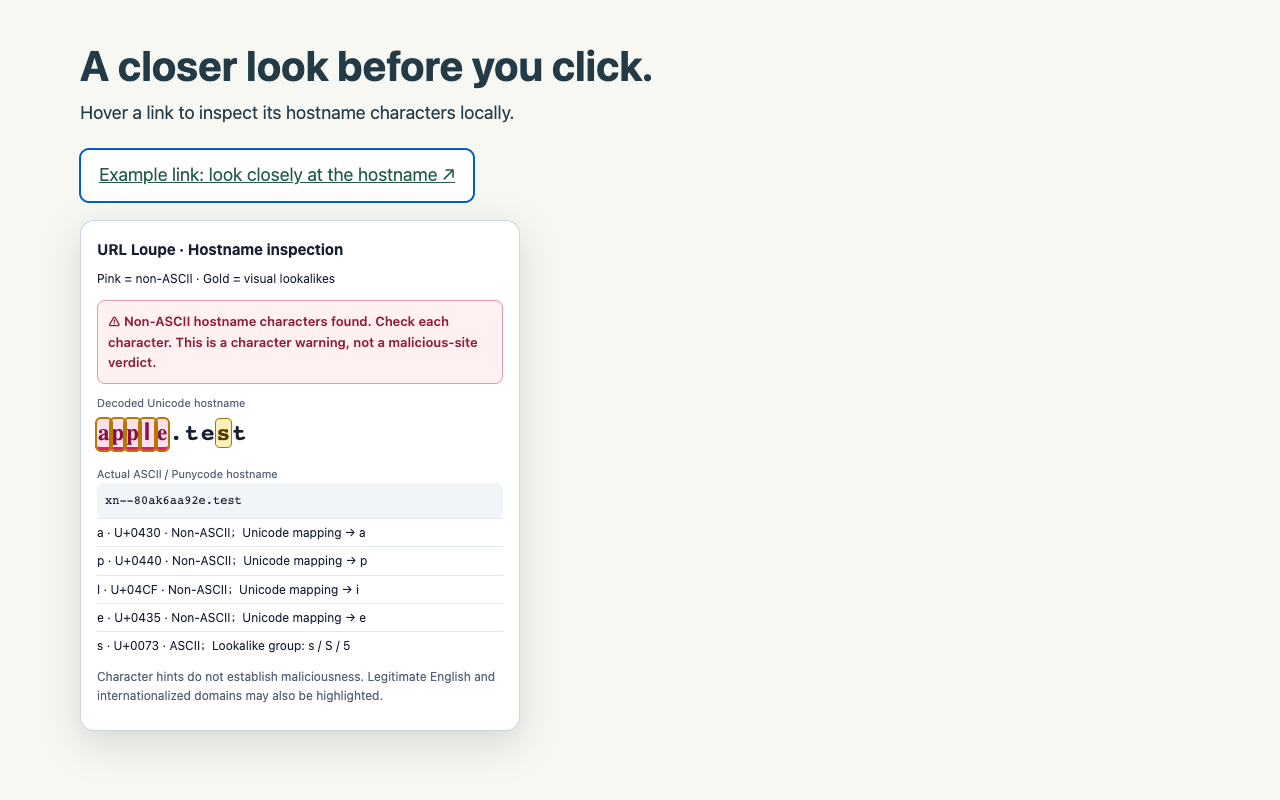
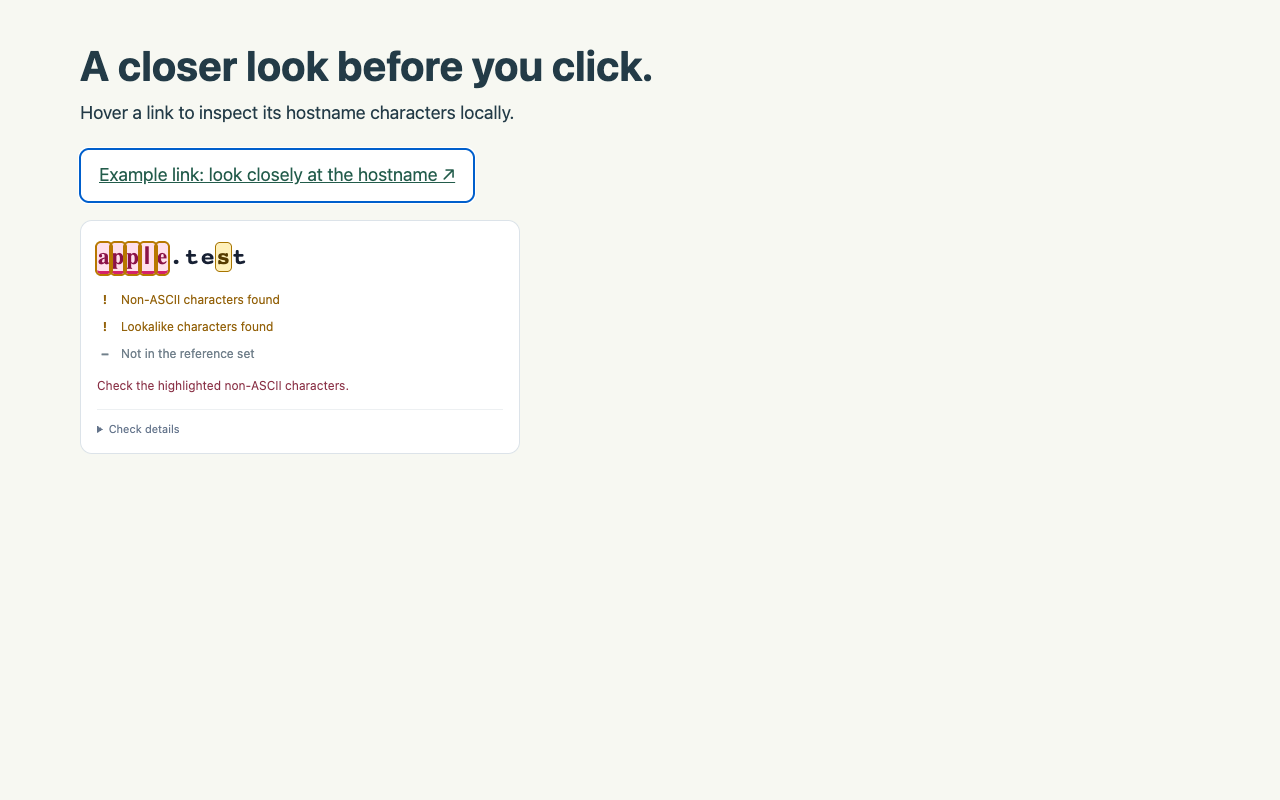
Show compact check statuses and explain only character concerns

Changed region(s): [[0.0625, 0.2812, 0.375, 0.8125], [0.0625, 0.8438, 0.375, 0.875]]

diff --git a/public/privacy.html b/public/privacy.html
@@ -1,1 +1,1 @@
-<!doctype html><html lang="en"><head><meta charset="utf-8"><meta name="viewport" content="width=device-width,initial-scale=1"><title>URL Loupe — Privacy Policy / 隐私政策</title><link rel="stylesheet" href="privacy.css"><link rel="icon" href="favicon.svg"></head><body><main><a href="/">← URL Loupe</a><h1>Privacy Policy</h1><p>Effective date: October 21, 2026 · Chrome extension version 0.3.2</p><nav><a href="#zh">中文</a> · <a href="https://github.com/zhaidewei/url-loupe/issues">Contact / support</a></nav><h2>Purpose and local processing</h2><p>URL Loupe highlights non-ASCII and visually similar hostname characters. The extension processes the current tab URL when you open its toolbar popup, URLs you type or paste into the popup or the “host” omnibox mode, and the destination of a webpage link when you hover or focus it. Processing takes place locally in your browser. Hostname extraction may temporarily handle a full URL in memory, including any credentials, path or query you supplied; those components are not included in the hostname result. Omnibox review pages receive only the extracted hostname.</p><h2>Data collection, storage and sharing</h2><p>The extension does not transmit browsing URLs, link destinations, page contents, credentials or inspection results to the developer or any third party. It has no account, analytics, advertising, tracking or extension data storage. It does not scan or store browsing history, read form fields, or collect page text. It listens for link hover and focus events rather than crawling all links. Temporary inspection state is replaced when another URL is checked or the extension context closes. There is no server-side extension dataset to retain or delete.</p><h2>Permissions and code</h2><p>“activeTab” allows reading the active page URL after you click the extension icon. Content scripts on HTTP(S) pages inspect hovered or focused link destinations and display a local overlay. The “host” keyword enables opt-in address-bar inspection. The extension does not replace links, intercept clicks, block navigation or visit an inspected URL. All JavaScript, Punycode code and Unicode mappings are bundled in the extension; no remotely hosted code is loaded.</p><h2>External links and website hosting</h2><p>Opening the privacy policy, support page or source repository is an ordinary browser navigation you initiate. Those websites and their hosting providers may process normal request metadata, such as IP address, time, requested page and browser information. The website at loupe.zhaidewei.com is hosted on Cloudflare. These visits are separate from the extension’s local URL inspections. If you voluntarily open a GitHub issue, the information you submit is handled by GitHub and may be public; do not include sensitive information.</p><h2>Limited Use and changes</h2><p>URL Loupe’s use of information received from Google APIs adheres to the Chrome Web Store User Data Policy, including the Limited Use requirements. Data accessed through Chrome APIs is used solely to provide the hostname inspection feature. Future changes to data practices will be reflected in this policy and the relevant store disclosures.</p><h2>Contact</h2><p>Maintainer: Dewei Zhai. Questions or requests: <a href="https://github.com/zhaidewei/url-loupe/issues">URL Loupe GitHub Issues</a>. The extension’s local-only processing does not establish whether a website is safe.</p><hr><section id="zh" lang="zh-CN"><h1>隐私政策</h1><p>生效日期：2026 年 10 月 21 日 · Chrome 插件版本 0.3.2</p><h2>用途与本地处理</h2><p>URL Loupe 标记域名中的非 ASCII 与视觉相似字符。点击插件图标后，它读取当前标签页网址；也处理你在面板或 host 地址栏模式中输入的网址，以及悬停或聚焦链接时的目标地址。分析在浏览器本地完成。解析过程可能短暂在内存中处理完整网址及其中的身份信息、路径和参数；这些内容不会进入域名结果。地址栏打开的检查页只接收解析后的 host。</p><h2>收集、存储与共享</h2><p>插件不向开发者或第三方发送浏览网址、链接目标、页面内容、身份信息或检查结果。没有账号、统计、广告、跟踪或插件数据持久化存储；不扫描或保存浏览历史，不读取表单，不收集页面文本。它监听链接悬停和聚焦事件，不批量抓取页面链接。临时检查状态在检查其他网址或插件上下文关闭时替换或释放，因此没有服务端插件数据可保留或删除。</p><h2>权限与代码</h2><p>activeTab 用于点击图标后读取当前网址；HTTP(S) 页面的 content scripts 用于检查悬停或聚焦链接并显示本地浮层；host 关键字提供主动进入的地址栏检查。插件不替换链接、不接管点击、不阻止跳转、不访问被检查的网址。JavaScript、Punycode 和 Unicode 映射随插件打包，不执行远程代码。</p><h2>外部链接与托管</h2><p>主动打开隐私政策、帮助或源码属于普通网页访问，相应网站及托管方可能处理 IP、访问时间、页面和浏览器信息等常规请求元数据。本网站由 Cloudflare 托管；这些访问与插件的本地网址检查相互独立。主动提交 GitHub Issue 的内容由 GitHub 处理，可能公开，请勿包含敏感信息。</p><h2>有限使用、更新与联系</h2><p>通过 Google API 获取的信息遵守 Chrome Web Store 用户数据政策及 Limited Use 要求，仅用于提供域名检查功能。若数据处理方式变化，将同步更新政策与商店披露。维护者：Dewei Zhai；联系渠道：<a href="https://github.com/zhaidewei/url-loupe/issues">GitHub Issues</a>。字符提示不构成网站安全判定。</p></section></main></body></html>
+<!doctype html><html lang="en"><head><meta charset="utf-8"><meta name="viewport" content="width=device-width,initial-scale=1"><title>URL Loupe — Privacy Policy / 隐私政策</title><link rel="stylesheet" href="privacy.css"><link rel="icon" href="favicon.svg"></head><body><main><a href="/">← URL Loupe</a><h1>Privacy Policy</h1><p>Effective date: October 21, 2026 · Chrome extension version 0.3.3</p><nav><a href="#zh">中文</a> · <a href="https://github.com/zhaidewei/url-loupe/issues">Contact / support</a></nav><h2>Purpose and local processing</h2><p>URL Loupe highlights non-ASCII and visually similar hostname characters. The extension processes the current tab URL when you open its toolbar popup, URLs you type or paste into the popup or the “host” omnibox mode, and the destination of a webpage link when you hover or focus it. Processing takes place locally in your browser. Hostname extraction may temporarily handle a full URL in memory, including any credentials, path or query you supplied; those components are not included in the hostname result. Omnibox review pages receive only the extracted hostname.</p><h2>Data collection, storage and sharing</h2><p>The extension does not transmit browsing URLs, link destinations, page contents, credentials or inspection results to the developer or any third party. It has no account, analytics, advertising, tracking or extension data storage. It does not scan or store browsing history, read form fields, or collect page text. It listens for link hover and focus events rather than crawling all links. Temporary inspection state is replaced when another URL is checked or the extension context closes. There is no server-side extension dataset to retain or delete.</p><h2>Permissions and code</h2><p>“activeTab” allows reading the active page URL after you click the extension icon. Content scripts on HTTP(S) pages inspect hovered or focused link destinations and display a local overlay. The “host” keyword enables opt-in address-bar inspection. The extension does not replace links, intercept clicks, block navigation or visit an inspected URL. All JavaScript, Punycode code and Unicode mappings are bundled in the extension; no remotely hosted code is loaded.</p><h2>External links and website hosting</h2><p>Opening the privacy policy, support page or source repository is an ordinary browser navigation you initiate. Those websites and their hosting providers may process normal request metadata, such as IP address, time, requested page and browser information. The website at loupe.zhaidewei.com is hosted on Cloudflare. These visits are separate from the extension’s local URL inspections. If you voluntarily open a GitHub issue, the information you submit is handled by GitHub and may be public; do not include sensitive information.</p><h2>Limited Use and changes</h2><p>URL Loupe’s use of information received from Google APIs adheres to the Chrome Web Store User Data Policy, including the Limited Use requirements. Data accessed through Chrome APIs is used solely to provide the hostname inspection feature. Future changes to data practices will be reflected in this policy and the relevant store disclosures.</p><h2>Contact</h2><p>Maintainer: Dewei Zhai. Questions or requests: <a href="https://github.com/zhaidewei/url-loupe/issues">URL Loupe GitHub Issues</a>. The extension’s local-only processing does not establish whether a website is safe.</p><hr><section id="zh" lang="zh-CN"><h1>隐私政策</h1><p>生效日期：2026 年 10 月 21 日 · Chrome 插件版本 0.3.3</p><h2>用途与本地处理</h2><p>URL Loupe 标记域名中的非 ASCII 与视觉相似字符。点击插件图标后，它读取当前标签页网址；也处理你在面板或 host 地址栏模式中输入的网址，以及悬停或聚焦链接时的目标地址。分析在浏览器本地完成。解析过程可能短暂在内存中处理完整网址及其中的身份信息、路径和参数；这些内容不会进入域名结果。地址栏打开的检查页只接收解析后的 host。</p><h2>收集、存储与共享</h2><p>插件不向开发者或第三方发送浏览网址、链接目标、页面内容、身份信息或检查结果。没有账号、统计、广告、跟踪或插件数据持久化存储；不扫描或保存浏览历史，不读取表单，不收集页面文本。它监听链接悬停和聚焦事件，不批量抓取页面链接。临时检查状态在检查其他网址或插件上下文关闭时替换或释放，因此没有服务端插件数据可保留或删除。</p><h2>权限与代码</h2><p>activeTab 用于点击图标后读取当前网址；HTTP(S) 页面的 content scripts 用于检查悬停或聚焦链接并显示本地浮层；host 关键字提供主动进入的地址栏检查。插件不替换链接、不接管点击、不阻止跳转、不访问被检查的网址。JavaScript、Punycode 和 Unicode 映射随插件打包，不执行远程代码。</p><h2>外部链接与托管</h2><p>主动打开隐私政策、帮助或源码属于普通网页访问，相应网站及托管方可能处理 IP、访问时间、页面和浏览器信息等常规请求元数据。本网站由 Cloudflare 托管；这些访问与插件的本地网址检查相互独立。主动提交 GitHub Issue 的内容由 GitHub 处理，可能公开，请勿包含敏感信息。</p><h2>有限使用、更新与联系</h2><p>通过 Google API 获取的信息遵守 Chrome Web Store 用户数据政策及 Limited Use 要求，仅用于提供域名检查功能。若数据处理方式变化，将同步更新政策与商店披露。维护者：Dewei Zhai；联系渠道：<a href="https://github.com/zhaidewei/url-loupe/issues">GitHub Issues</a>。字符提示不构成网站安全判定。</p></section></main></body></html>

diff --git a/extension/i18n.js b/extension/i18n.js
@@ -1,2 +1,2 @@
 // UI-only translations: user-provided URL characters are never translated.
-(()=>{const en={"与已保存的完整域名一致，已隐藏普通 ASCII 字符提示；这不代表网站安全。":"Matches a saved hostname. Generic ASCII hints are hidden; this does not establish website safety.","Host Lens · 域名字符检查":"URL Loupe · Hostname inspection","URL 放大镜":"URL Loupe","看清 host 中的每个字符":"A closer look at every hostname","网址或域名":"URL or domain","粘贴网址，例如 https://lnkd.in":"Paste a URL, e.g. https://lnkd.in","试试看":"Try","I / l 混淆":"I / l lookalikes","西里尔字母":"Cyrillic","中文域名":"Chinese domain","粉色＝非 ASCII　金框＝视觉相似字符":"Pink = non-ASCII · Gold = visual lookalikes","⚠ host 含非 ASCII 字符，请逐字核对域名。此提示覆盖所有非 ASCII 字符，不代表网站恶意。":"⚠ Non-ASCII hostname characters found. Check each character. This is a character warning, not a malicious-site verdict.","解析后的 Unicode host":"Decoded Unicode hostname","浏览器实际使用的 ASCII / Punycode host":"Actual ASCII / Punycode hostname","输入中的原始 host（浏览器规范化前）":"Original hostname before normalization","网址含有 @ 前的身份信息；实际 host 以此面板解析结果为准。":"Credentials before @ are not the hostname. Inspect the actual hostname shown here.","这是 IPv6 地址，字符提示仅供阅读。":"This is an IPv6 address; hints are for readability only.","字符提示不代表恶意判定。普通英文域名和中文域名也可能出现高亮。":"Character hints do not establish maliciousness. Legitimate English and internationalized domains may also be highlighted.","非 ASCII 字符":"Non-ASCII character","ASCII 字符":"ASCII character","非 ASCII":"Non-ASCII","无法解析输入，请在此输入 HTTP(S) 网址或域名。":"Cannot parse the input. Enter an HTTP(S) URL or domain.","当前页面无法检查，请粘贴 HTTP(S) 网址。":"This page cannot be inspected. Paste an HTTP(S) URL.","无法读取当前页，请手动粘贴网址。":"Cannot read the current tab. Paste a URL manually.","无法解析网址，请输入完整的 HTTP(S) 网址或域名。":"Cannot parse the URL. Enter an HTTP(S) URL or domain.","只检查 HTTP(S) 网址的 host。":"Only HTTP(S) hostnames can be inspected.","域名的 Punycode 编码无效。":"The hostname has invalid Punycode encoding.","组合 rn 形似 m":"The pair rn can look like m","组合 vv 形似 w":"The pair vv can look like w","形似组合：rn":"Lookalike pair: rn","形似组合：vv":"Lookalike pair: vv","输入网址或域名，检查字符；<dim>按回车查看完整高亮，不访问目标网站</dim>":"Enter a URL or domain; <dim>press Enter for local highlights, without visiting the target</dim>","⚠ 含非 ASCII 字符，请核对 · ":"⚠ Non-ASCII characters — check carefully · "," · 相似字符 ":" · Lookalikes "," · 回车查看，不访问":" · Enter to inspect locally","实际 host：":"Actual host: ","· 查看高亮详情":"· Open character details","无法解析此网址。<dim>请输入 HTTP(S) 网址或域名；回车显示帮助，不访问输入地址</dim>":"Cannot parse this URL. <dim>Enter an HTTP(S) URL or domain; Enter opens local help</dim>","无法打开域名检查页。":"Cannot open the hostname inspector."};let lang=globalThis.chrome?.i18n?.getUILanguage?.().startsWith('zh')?'zh':'en';if(!globalThis.chrome?.i18n)lang='zh';function text(value){if(lang==='zh')return value;if(en[value])return en[value];if(value.startsWith('Unicode 映射 → '))return 'Unicode mapping → '+value.slice('Unicode 映射 → '.length);if(value.startsWith('形似组：'))return 'Lookalike group: '+value.slice('形似组：'.length);return value;}globalThis.HostLensI18n={text,get lang(){return lang;},set lang(value){lang=value==='zh'?'zh':'en';}};})();
+(()=>{const en={"域名检查结果":"Hostname checks","无非 ASCII 字符":"No non-ASCII characters","发现非 ASCII 字符":"Non-ASCII characters found","无形似字符提示":"No lookalike character hints","发现形似字符":"Lookalike characters found","已保存的域名匹配":"Saved hostname matched","参考库未收录":"Not in the reference set","请核对标记的非 ASCII 字符。":"Check the highlighted non-ASCII characters.","标记的字符可能形似其他字符，请核对预期域名。":"Highlighted characters can look alike. Check the expected hostname.","网址含 @ 前的身份信息，请核对实际域名。":"Credentials appear before @. Check the actual hostname.","检查详情":"Check details","检查范围：域名字符与已保存域名匹配；不检查网页内容。":"Scope: hostname characters and saved-host matching; page content is not checked.","与已保存的完整域名一致，已隐藏普通 ASCII 字符提示；这不代表网站安全。":"Matches a saved hostname. Generic ASCII hints are hidden; this does not establish website safety.","Host Lens · 域名字符检查":"URL Loupe · Hostname inspection","URL 放大镜":"URL Loupe","看清 host 中的每个字符":"A closer look at every hostname","网址或域名":"URL or domain","粘贴网址，例如 https://lnkd.in":"Paste a URL, e.g. https://lnkd.in","试试看":"Try","I / l 混淆":"I / l lookalikes","西里尔字母":"Cyrillic","中文域名":"Chinese domain","粉色＝非 ASCII　金框＝视觉相似字符":"Pink = non-ASCII · Gold = visual lookalikes","⚠ host 含非 ASCII 字符，请逐字核对域名。此提示覆盖所有非 ASCII 字符，不代表网站恶意。":"⚠ Non-ASCII hostname characters found. Check each character. This is a character warning, not a malicious-site verdict.","解析后的 Unicode host":"Decoded Unicode hostname","浏览器实际使用的 ASCII / Punycode host":"Actual ASCII / Punycode hostname","输入中的原始 host（浏览器规范化前）":"Original hostname before normalization","网址含有 @ 前的身份信息；实际 host 以此面板解析结果为准。":"Credentials before @ are not the hostname. Inspect the actual hostname shown here.","这是 IPv6 地址，字符提示仅供阅读。":"This is an IPv6 address; hints are for readability only.","字符提示不代表恶意判定。普通英文域名和中文域名也可能出现高亮。":"Character hints do not establish maliciousness. Legitimate English and internationalized domains may also be highlighted.","非 ASCII 字符":"Non-ASCII character","ASCII 字符":"ASCII character","非 ASCII":"Non-ASCII","无法解析输入，请在此输入 HTTP(S) 网址或域名。":"Cannot parse the input. Enter an HTTP(S) URL or domain.","当前页面无法检查，请粘贴 HTTP(S) 网址。":"This page cannot be inspected. Paste an HTTP(S) URL.","无法读取当前页，请手动粘贴网址。":"Cannot read the current tab. Paste a URL manually.","无法解析网址，请输入完整的 HTTP(S) 网址或域名。":"Cannot parse the URL. Enter an HTTP(S) URL or domain.","只检查 HTTP(S) 网址的 host。":"Only HTTP(S) hostnames can be inspected.","域名的 Punycode 编码无效。":"The hostname has invalid Punycode encoding.","组合 rn 形似 m":"The pair rn can look like m","组合 vv 形似 w":"The pair vv can look like w","形似组合：rn":"Lookalike pair: rn","形似组合：vv":"Lookalike pair: vv","输入网址或域名，检查字符；<dim>按回车查看完整高亮，不访问目标网站</dim>":"Enter a URL or domain; <dim>press Enter for local highlights, without visiting the target</dim>","⚠ 含非 ASCII 字符，请核对 · ":"⚠ Non-ASCII characters — check carefully · "," · 相似字符 ":" · Lookalikes "," · 回车查看，不访问":" · Enter to inspect locally","实际 host：":"Actual host: ","· 查看高亮详情":"· Open character details","无法解析此网址。<dim>请输入 HTTP(S) 网址或域名；回车显示帮助，不访问输入地址</dim>":"Cannot parse this URL. <dim>Enter an HTTP(S) URL or domain; Enter opens local help</dim>","无法打开域名检查页。":"Cannot open the hostname inspector."};let lang=globalThis.chrome?.i18n?.getUILanguage?.().startsWith('zh')?'zh':'en';if(!globalThis.chrome?.i18n)lang='zh';function text(value){if(lang==='zh')return value;if(en[value])return en[value];if(value.startsWith('Unicode 映射 → '))return 'Unicode mapping → '+value.slice('Unicode 映射 → '.length);if(value.startsWith('形似组：'))return 'Lookalike group: '+value.slice('形似组：'.length);return value;}globalThis.HostLensI18n={text,get lang(){return lang;},set lang(value){lang=value==='zh'?'zh':'en';}};})();

diff --git a/extension/render.js b/extension/render.js
@@ -1,54 +1,36 @@
 (() => {
   const tr=value=>globalThis.HostLensI18n?.text(value)??value;
   const hints=t=>t.hints.map(tr);
-  const styles = `
-    :host{all:initial;color-scheme:light;font:14px/1.6 system-ui,sans-serif;color:#172033}
-    *{box-sizing:border-box} .card{font:14px/1.6 system-ui,sans-serif;color:#172033;background:#fff;border:1px solid #cbd5e1;border-radius:14px;padding:16px;box-shadow:0 12px 40px #0f172a28;overflow-wrap:anywhere}
-    h2{font-size:15px;margin:0 0 8px}p{margin:8px 0;font-size:12px;color:#536176}
-    .host{font:600 23px/1.9 ui-monospace,monospace;direction:ltr;unicode-bidi:isolate;word-break:break-all}
-    .char{border-radius:4px;padding:1px;white-space:pre-wrap}.nonascii{background:#ffe0ec;color:#8b1247;border-bottom:3px solid #d4226a}
-    .similar{outline:1px solid #a87500;background:#fff0ba;color:#563b00}.nonascii.similar{background:#ffe0ec;color:#8b1247;outline:2px solid #b87800}
-    .encoded{font:12px/1.6 ui-monospace,monospace;direction:ltr;unicode-bidi:isolate;background:#f1f5f9;padding:8px;border-radius:6px;user-select:all}
-    .label{font-size:11px;color:#536176;margin-top:10px}.legend{font-size:12px;margin-bottom:12px}
-    .warning{background:#fff1f2;border:1px solid #e29aa9;border-radius:8px;padding:10px;margin:10px 0;color:#901e3a;font-weight:600;font-size:13px}
-    .details{max-height:150px;overflow:auto;font-size:12px}.detail{border-top:1px solid #e2e8f0;padding:4px 0}
+  const styles=`
+    :host{all:initial;color-scheme:light;font:13px/1.6 system-ui,sans-serif;color:#172033}
+    *{box-sizing:border-box}.card{font:13px/1.6 system-ui,sans-serif;color:#172033;background:#fff;border:1px solid #dce3e9;border-radius:12px;padding:16px;overflow-wrap:anywhere}
+    .host{font:600 23px/1.8 ui-monospace,monospace;direction:ltr;unicode-bidi:isolate;word-break:break-all;margin-bottom:12px}
+    .char{border-radius:4px;padding:1px;white-space:pre-wrap}.nonascii{background:#ffe0ec;color:#8b1247;border-bottom:3px solid #d4226a}.similar{outline:1px solid #a87500;background:#fff0ba;color:#563b00}.nonascii.similar{background:#ffe0ec;color:#8b1247;outline:2px solid #b87800}
+    .checks{display:grid;gap:8px}.check{display:flex;align-items:center;gap:8px;font-size:12px}.icon{font-weight:700;width:16px;text-align:center}.pass{color:#23634d}.attention{color:#94630c}.neutral{color:#71808b}
+    .warning,.explanation{font-size:12px;margin:12px 0 0;color:#8b3348}.explanation{color:#7b622e}
+    details{margin-top:14px;border-top:1px solid #edf0f2;padding-top:10px;color:#64748b;font-size:11px}summary{cursor:pointer}summary:focus-visible{outline:2px solid #4383ea;outline-offset:3px}.label{margin-top:10px}.encoded{font:12px/1.6 ui-monospace,monospace;direction:ltr;unicode-bidi:isolate;padding:5px 0;color:#34475a;user-select:all}.details{max-height:150px;overflow:auto}.detail{padding:3px 0}.scope{font-size:11px;margin:10px 0 0}
   `;
-  function appendHost(parent, tokens) {
-    const line = document.createElement('div'); line.className = 'host';
-    for (const t of tokens) {
-      const span = document.createElement('span');
-      span.className = 'char'+(t.nonAscii ? ' nonascii':'')+(t.similar ? ' similar':'');
-      span.textContent = t.char;
-      span.title = [t.code, tr(t.nonAscii ? '非 ASCII 字符' : 'ASCII 字符'), ...hints(t)].join('；');
-      span.setAttribute('aria-label', t.char+' '+span.title);
-      line.append(span);
-    }
-    parent.append(line);
+  function make(tag,text,cls){const el=document.createElement(tag);if(text!==undefined)el.textContent=text;if(cls)el.className=cls;return el;}
+  function appendHost(parent,tokens){
+    const line=make('div',undefined,'host');
+    for(const t of tokens){const span=make('span',t.char,'char'+(t.nonAscii?' nonascii':'')+(t.similar?' similar':''));span.title=[t.code,tr(t.nonAscii?'非 ASCII 字符':'ASCII 字符'),...hints(t)].join('；');span.setAttribute('aria-label',t.char+' '+span.title);line.append(span);}parent.append(line);
   }
-  function render(root, data) {
-    root.replaceChildren();
-    const style = document.createElement('style'); style.textContent = styles; root.append(style);
-    const card = document.createElement('section'); card.className='card'; root.append(card);
-    const add = (tag, text, cls) => { const e=document.createElement(tag); e.textContent=tr(text); if(cls)e.className=cls; card.append(e); return e; };
-    add('h2','Host Lens · 域名字符检查');
-    add('div','粉色＝非 ASCII　金框＝视觉相似字符','legend');
-    if(data.knownReference)add('p','与已保存的完整域名一致，已隐藏普通 ASCII 字符提示；这不代表网站安全。');
-    if (data.nonAsciiCount > 0) {
-      const warning=add('div','⚠ host 含非 ASCII 字符，请逐字核对域名。此提示覆盖所有非 ASCII 字符，不代表网站恶意。','warning');
-      warning.setAttribute('role','alert');
-    }
-    add('div','解析后的 Unicode host','label'); appendHost(card, data.tokens);
-    add('div','浏览器实际使用的 ASCII / Punycode host','label'); add('div',data.asciiHost,'encoded');
-    if (data.originalTokens) { add('div','输入中的原始 host（浏览器规范化前）','label'); appendHost(card,data.originalTokens); }
-    if (data.hasCredentials) add('p','网址含有 @ 前的身份信息；实际 host 以此面板解析结果为准。');
-    if (data.ipv6) add('p','这是 IPv6 地址，字符提示仅供阅读。');
-    const seen = new Set(); const details=document.createElement('div'); details.className='details'; card.append(details);
-    for(const t of [...data.tokens,...(data.originalTokens||[])]) {
-      if ((!t.nonAscii && !t.similar) || seen.has(t.char)) continue;
-      seen.add(t.char); const row=document.createElement('div'); row.className='detail';
-      row.textContent=`${t.char} · ${t.code} · ${[tr(t.nonAscii?'非 ASCII':'ASCII'),...hints(t)].join('；')}`; details.append(row);
-    }
-    add('p','字符提示不代表恶意判定。普通英文域名和中文域名也可能出现高亮。');
+  function render(root,data){
+    root.replaceChildren(make('style',styles));const card=make('section',undefined,'card');card.setAttribute('aria-label',tr('域名检查结果'));root.append(card);
+    appendHost(card,data.originalTokens||data.tokens);
+    const checks=make('div',undefined,'checks');checks.setAttribute('role','list');card.append(checks);
+    const row=(kind,label)=>{const item=make('div',undefined,'check '+kind);item.setAttribute('role','listitem');const icon=make('span',kind==='pass'?'✓':kind==='attention'?'!':'–','icon');icon.setAttribute('aria-hidden','true');item.append(icon,make('span',tr(label)));checks.append(item);};
+    row(data.nonAsciiCount?'attention':'pass',data.nonAsciiCount?'发现非 ASCII 字符':'无非 ASCII 字符');
+    row(data.similarCount?'attention':'pass',data.similarCount?'发现形似字符':'无形似字符提示');
+    row(data.knownReference?'pass':'neutral',data.knownReference?'已保存的域名匹配':'参考库未收录');
+    if(data.nonAsciiCount){const warning=make('p',tr('请核对标记的非 ASCII 字符。'),'warning');warning.setAttribute('role','alert');card.append(warning);}
+    else if(data.similarCount)card.append(make('p',tr('标记的字符可能形似其他字符，请核对预期域名。'),'explanation'));
+    if(data.hasCredentials)card.append(make('p',tr('网址含 @ 前的身份信息，请核对实际域名。'),'explanation'));
+    const detail=make('details');detail.append(make('summary',tr('检查详情')));card.append(detail);
+    detail.append(make('div',tr('浏览器实际使用的 ASCII / Punycode host'),'label'),make('div',data.asciiHost,'encoded'));
+    if(data.originalTokens)detail.append(make('div',tr('解析后的 Unicode host'),'label'),make('div',data.unicodeHost,'encoded normalized'));
+    const list=make('div',undefined,'details');const seen=new Set();for(const t of [...data.tokens,...(data.originalTokens||[])]){if((!t.nonAscii&&!t.similar)||seen.has(t.char))continue;seen.add(t.char);list.append(make('div',`${t.char} · ${t.code} · ${[tr(t.nonAscii?'非 ASCII':'ASCII'),...hints(t)].join('；')}`,'detail'));}detail.append(list);
+    detail.append(make('p',tr('检查范围：域名字符与已保存域名匹配；不检查网页内容。'),'scope'));
   }
-  globalThis.HostLensView = Object.freeze({render});
+  globalThis.HostLensView=Object.freeze({render});
 })();

diff --git a/extension/popup.js b/extension/popup.js
@@ -29,5 +29,5 @@ for(const button of document.querySelectorAll('[data-example]'))button.addEventL
 })();
 
 const originalText=new Map();for(const el of document.querySelectorAll('header p,label,.examples span,.examples button'))originalText.set(el,el.textContent);const originalPlaceholder=input.placeholder;
-function applyLanguage(){document.documentElement.lang=HostLensI18n.lang==='en'?'en':'zh-CN';for(const [el,text]of originalText)el.textContent=HostLensI18n.text(text);input.placeholder=HostLensI18n.text(originalPlaceholder);document.getElementById('language').textContent=HostLensI18n.lang==='en'?'中文':'English';document.getElementById('privacy').textContent=HostLensI18n.lang==='en'?'Privacy':'隐私政策';document.getElementById('usage').textContent=HostLensI18n.lang==='en'?'Type host + Tab in the address bar to inspect locally. Hover a webpage link to see character hints. Pink: non-ASCII. Gold: lookalikes. Character checks do not establish website safety.':'地址栏输入 host 后按 Tab，可边输入边检查。网页中悬停链接可查看字符提示。粉色＝非 ASCII；金框＝视觉相似字符。字符检查不代表网站安全。';if(input.value.trim())check(input.value);}
+function applyLanguage(){document.documentElement.lang=HostLensI18n.lang==='en'?'en':'zh-CN';for(const [el,text]of originalText)el.textContent=HostLensI18n.text(text);input.placeholder=HostLensI18n.text(originalPlaceholder);document.getElementById('language').textContent=HostLensI18n.lang==='en'?'中文':'English';document.getElementById('examples-label').textContent=HostLensI18n.lang==='en'?'Examples':'示例';document.getElementById('help-label').textContent=HostLensI18n.lang==='en'?'Help':'帮助';document.getElementById('privacy').textContent=HostLensI18n.lang==='en'?'Privacy':'隐私政策';document.getElementById('usage').textContent=HostLensI18n.lang==='en'?'Type host + Tab in the address bar, or hover a webpage link. Pink: non-ASCII. Gold: lookalikes.':'地址栏输入 host 后按 Tab，或悬停网页链接。粉色＝非 ASCII；金框＝形似字符。';if(input.value.trim())check(input.value);}
 document.getElementById('language').addEventListener('click',()=>{HostLensI18n.lang=HostLensI18n.lang==='en'?'zh':'en';applyLanguage();});applyLanguage();

diff --git a/extension/popup.html b/extension/popup.html
@@ -7,12 +7,12 @@
 <link rel="stylesheet" href="popup.css">
 </head>
 <body>
-<header><img src="icons/icon-48.png" alt="" width="32" height="32"><button id="language" type="button" aria-label="Switch language">中文</button><h1>URL Loupe</h1><p>看清 host 中的每个字符</p></header>
+<header><img src="icons/icon-48.png" alt="" width="32" height="32"><button id="language" type="button" aria-label="Switch language">中文</button><h1>URL Loupe</h1></header>
 <div class="input-group"><label for="url">网址或域名</label><div class="input-row"><input id="url" type="text" placeholder="粘贴网址，例如 https://lnkd.in" autocomplete="off" spellcheck="false"></div></div>
-<div class="examples"><span>试试看</span><button data-example="https://Inkd.in/enHTuknJ">I / l 混淆</button><button data-example="https://аррӏе.com">西里尔字母</button><button data-example="https://例子.测试">中文域名</button></div>
-<p id="error" role="alert"></p>
+<details class="examples-panel"><summary id="examples-label">Examples</summary><div class="examples"><span>试试看</span><button data-example="https://Inkd.in/enHTuknJ">I / l 混淆</button><button data-example="https://аррӏе.com">西里尔字母</button><button data-example="https://例子.测试">中文域名</button></div>
+</details><p id="error" role="alert"></p>
 <div id="result" aria-live="polite"></div>
-<footer><p id="usage"></p><p><a href="https://loupe.zhaidewei.com/privacy.html" target="_blank" rel="noopener noreferrer" id="privacy">Privacy</a> · <a href="https://github.com/zhaidewei/url-loupe" target="_blank" rel="noopener noreferrer">GitHub</a></p></footer>
+<footer><details class="help"><summary id="help-label">Help</summary><p id="usage"></p></details><p><a href="https://loupe.zhaidewei.com/privacy.html" target="_blank" rel="noopener noreferrer" id="privacy">Privacy</a> · <a href="https://github.com/zhaidewei/url-loupe" target="_blank" rel="noopener noreferrer">GitHub</a></p></footer>
 <script src="vendor/punycode.js"></script><script src="vendor/confusables.js"></script><script src="known-hosts.js"></script><script src="analyzer.js"></script><script src="i18n.js"></script><script src="render.js"></script><script src="popup.js"></script>
 </body>
 </html>

diff --git a/extension/popup.css b/extension/popup.css
@@ -1,3 +1,5 @@
 *{box-sizing:border-box}body{margin:0;width:480px;background:#f6f8fc;color:#172033;font:14px/1.6 system-ui,sans-serif;padding:20px}h1{font-size:21px;margin:0}header p{margin:0 0 18px;color:#64748b}label{display:block;margin-bottom:5px;font-weight:600}.input-row{display:flex;gap:8px}input{width:100%;min-width:0;border:1px solid #cbd5e1;border-radius:8px;padding:10px;font:13px ui-monospace,monospace;background:white}button{border:0;border-radius:8px;padding:8px 12px;background:#233c78;color:white;cursor:pointer;white-space:nowrap}button:focus-visible,input:focus-visible{outline:3px solid #4383ea;outline-offset:2px}.examples{display:flex;align-items:center;gap:6px;margin-top:12px;font-size:11px;color:#64748b}.examples button{background:#e8edf7;color:#34476d;font-size:11px;padding:5px 8px}#error{color:#a12340;font-size:12px;margin:10px 0}footer{font-size:11px;color:#64748b;margin-top:14px}
 
 header{position:relative;padding-left:42px}header>img{position:absolute;left:0;top:1px}#language{position:absolute;right:0;top:0;background:transparent;color:#64748b;font-size:11px;padding:4px}footer p{margin:6px 0}footer a{color:#536176}
+
+body{width:420px;padding:18px;background:#f6f8fa}header{padding-bottom:14px}header h1{font-size:19px}.examples-panel{margin-top:9px;font-size:11px;color:#71808b}.examples-panel summary,.help summary{cursor:pointer}.examples{margin-top:6px}.input-group label{font-size:12px}.help{font-size:11px}footer{font-size:10px;color:#819096}.card{box-shadow:none}

diff --git a/store/上传填写指南.md b/store/上传填写指南.md
@@ -1,10 +1,10 @@
 # URL Loupe Chrome Web Store 上传材料
 
-版本：0.3.2。此包用于手动上传，尚未向商店提交或通过审核。
+版本：0.3.3。此包用于手动上传，尚未向商店提交或通过审核。
 
 ## 文件怎么用
 
-上传 `url-loupe-chrome-0.3.2.zip`，其中 manifest.json 位于根目录。不要把整份项目源码 ZIP 或包含本指南的材料 ZIP 当成插件上传。
+上传 `url-loupe-chrome-0.3.3.zip`，其中 manifest.json 位于根目录。不要把整份项目源码 ZIP 或包含本指南的材料 ZIP 当成插件上传。
 
 商品名称与简短介绍由 `_locales/en`、`_locales/zh_CN` 的 manifest 文案提供。默认英文；商店英文介绍复制 listing-en.txt，简体中文本地化复制 listing-zh-CN.txt。
 
@@ -49,7 +49,7 @@ The extension processes URLs locally to extract hostnames but does not collect o
 ## 给审核员的测试说明（英文）
 
 No account, login, payment or API key is required.
-1. Open the toolbar popup and choose the Cyrillic example. Non-ASCII characters are highlighted and the Punycode host is shown.
+1. Open the toolbar popup and expand Examples and choose the Cyrillic example. Non-ASCII characters are highlighted and the Punycode host is shown.
 2. Paste https://例子.test — both Chinese hostname characters must be highlighted. Paste https://safe.test/中文?x=а — Unicode path/query characters must not produce a non-ASCII hostname warning.
 3. In the address bar type host and press Tab. Enter https://Inkd.test and press Enter. An extension-local review opens; the destination must not be visited.
 4. On an ordinary HTTP(S) webpage hover or keyboard-focus a link containing similar hostname characters. An overlay appears. Escape dismisses it; the original link is unchanged. If Chrome restricts a page, use another ordinary webpage or a local HTTP fixture.
@@ -66,6 +66,6 @@ Exact matches to saved hostnames suppress generic ASCII character hints. Non-ASC
 
 核对日期：2026-10-20。是否接纳和审核时长由 Chrome Web Store 决定。
 
-## 0.3.2 参考数据
+## 0.3.3 参考数据
 
 插件随包包含 6,890 个去重后的完整 host，合并现有记录与 Google CrUX 2026-09 Top 5000 origin 分组。运行时只存域名，来源与 CC BY 4.0 声明在 vendor/CRUX-NOTICE.txt 中。下载路径为独立导出镜像，不是 Google 官方插件或 Google 认可的安全名单。没有新增权限、联网请求或远程代码。

diff --git a/extension/VALIDATION.md b/extension/VALIDATION.md
@@ -71,3 +71,9 @@ node tests/browser.cjs
 - 固定上游镜像提交与压缩输入 SHA-256，另一个镜像的相同月度导出独立核对，host 集合一致。没有称其为 Google 官方托管下载。
 - 22 项扩展单测、20 项网站/CLI 单测通过；0.3.2 最终 ZIP 解压加载隔离 Chromium，通过 www.google.com 与已有 host 的无 ASCII 高亮检查、未知子域不豁免、非 ASCII 保留及原有所有入口回归。
 - 上传 ZIP 为 95599 字节；合并 JSON 122643 字节，gzip 40894 字节。未提交商店审核。
+
+## 精简结果 0.3.3（2026-10-21）
+
+- 正常状态只显示一次域名与三项检查状态：非 ASCII、形似字符提示、保存域名匹配。通过项为绿色，未收录为灰色，不显示成已匹配或安全。
+- 有字符问题时才显示高亮和短解释；实际 ASCII/Punycode、码点和检查范围收进默认关闭的详情。示例与帮助默认折叠，移除重复标题、图例、域名与常驻长提示。
+- 不改变检测规则、数据来源或权限。源码和上传 ZIP 的真实 Chrome 回归通过，包括三项通过状态、默认折叠、非 ASCII 与未知域名提示、语言切换、地址栏和悬停。

diff --git a/README.zh-CN.md b/README.zh-CN.md
@@ -1,4 +1,4 @@
-# URL Loupe 网站 v0.3.2
+# URL Loupe 网站 v0.3.3
 
 输入网址，即时检查 host 中的非 ASCII 字符、视觉相似字符与公司域名相似候选。所有字符与品牌比对在浏览器本地完成，不访问输入的目标网站。
 
@@ -97,4 +97,4 @@ Wikidata 结构化数据采用 CC0；Unicode 数据、punycode.js、tldts 和 tl
 
 ## Chrome 商店材料
 
-extension/ 当前商店准备版为 0.3.2，新增英文／简体中文与面板语言切换，仍仅做字符检查。打包运行 `node scripts/package-extension.mjs`。商店介绍、权限与隐私填写说明及图片在 store/，公开隐私政策为 https://loupe.zhaidewei.com/privacy.html 。插件 ZIP 已在隔离 Chrome 中加载验证；尚未上传或提交商店审核。
+extension/ 当前商店准备版为 0.3.3，新增英文／简体中文与面板语言切换，仍仅做字符检查。打包运行 `node scripts/package-extension.mjs`。商店介绍、权限与隐私填写说明及图片在 store/，公开隐私政策为 https://loupe.zhaidewei.com/privacy.html 。插件 ZIP 已在隔离 Chrome 中加载验证；尚未上传或提交商店审核。

diff --git a/VALIDATION.md b/VALIDATION.md
@@ -100,3 +100,8 @@ Node.js 22.23.1；`npm test`：14/14 通过。
 - 运行时合并列表仅域名；固定来源、镜像、快照、许可、校验值和转换见 data/crux/，归属声明单独随包保留。精确匹配应用于网站、插件和 CLI，不新增 CrUX 域名模糊品牌比对，不自动信任其他子域。
 - 20 项网站/CLI 单测、22 项扩展单测、网站桌面/手机回归、最终 ZIP 隔离 Chrome 回归通过。
 - 线上部署版本 2bdaad22-1dc4-4afd-a93b-f84df4a669b2；正式子域名与隐私页 HTTP 200，6,890 条显示、CrUX 精确匹配、双语、非 ASCII 和品牌候选回归通过，无页面错误或目标站点/API 请求。
+
+## 插件精简结果 0.3.3（2026-10-21）
+
+- 仅调整 extension/ 的结果展示与双语文案：通过项绿色；未收录中性；有字符问题再解释。示例、帮助、Punycode 和码点详情默认折叠。
+- 检测逻辑、6890 条参考数据及权限不变。真实上传 ZIP 的隔离 Chrome 回归与双语截图验证通过；网页检查界面不变。

diff --git a/README.md b/README.md
@@ -68,4 +68,4 @@ npx wrangler@4.127.0 deploy
 
 ## Chrome Web Store package
 
-The extension is version 0.3.2. Run `node scripts/package-extension.mjs` to build the upload ZIP with manifest.json at its root. Store copy and submission notes are in [store/](store/). Public privacy policy: https://loupe.zhaidewei.com/privacy.html. The developer dashboard submission has not been performed.
+The extension is version 0.3.3. Run `node scripts/package-extension.mjs` to build the upload ZIP with manifest.json at its root. Store copy and submission notes are in [store/](store/). Public privacy policy: https://loupe.zhaidewei.com/privacy.html. The developer dashboard submission has not been performed.
